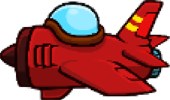
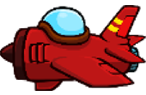
enemies

diff --git a/script/script.js b/script/script.js
@@ -109,9 +109,8 @@ window.addEventListener('load', function () {
 			}
 		}
 		draw(context) {
-			context.fillStyle = 'red';
-			context.fillRect(this.x, this.y, this.width, this.height);
-			context.fillStyle = 'black';
+			context.strokeRect(this.x, this.y, this.width, this.height);
+			context.drawImage(this.image, this.x, this.y)
 			context.font = '20px Helvetica';
 			context.fillText(this.lives, this.x, this.y);
 		}
@@ -119,9 +118,11 @@ window.addEventListener('load', function () {
 	class Angler1 extends Enemy {
 		constructor(game) {
 			super(game);
-			this.width = 170 * 0.5;
-			this.height = 100 * 0.5;
-			this.y = Math.random() * (this.game.height * 0.9 - this.height)
+			this.width = 150;
+			this.height = 95;
+			this.y = Math.random() * (this.game.height * 0.9 - this.height);
+			this.image = document.getElementById('enemy1');
+
 		}
 	}
 	class Layer {
